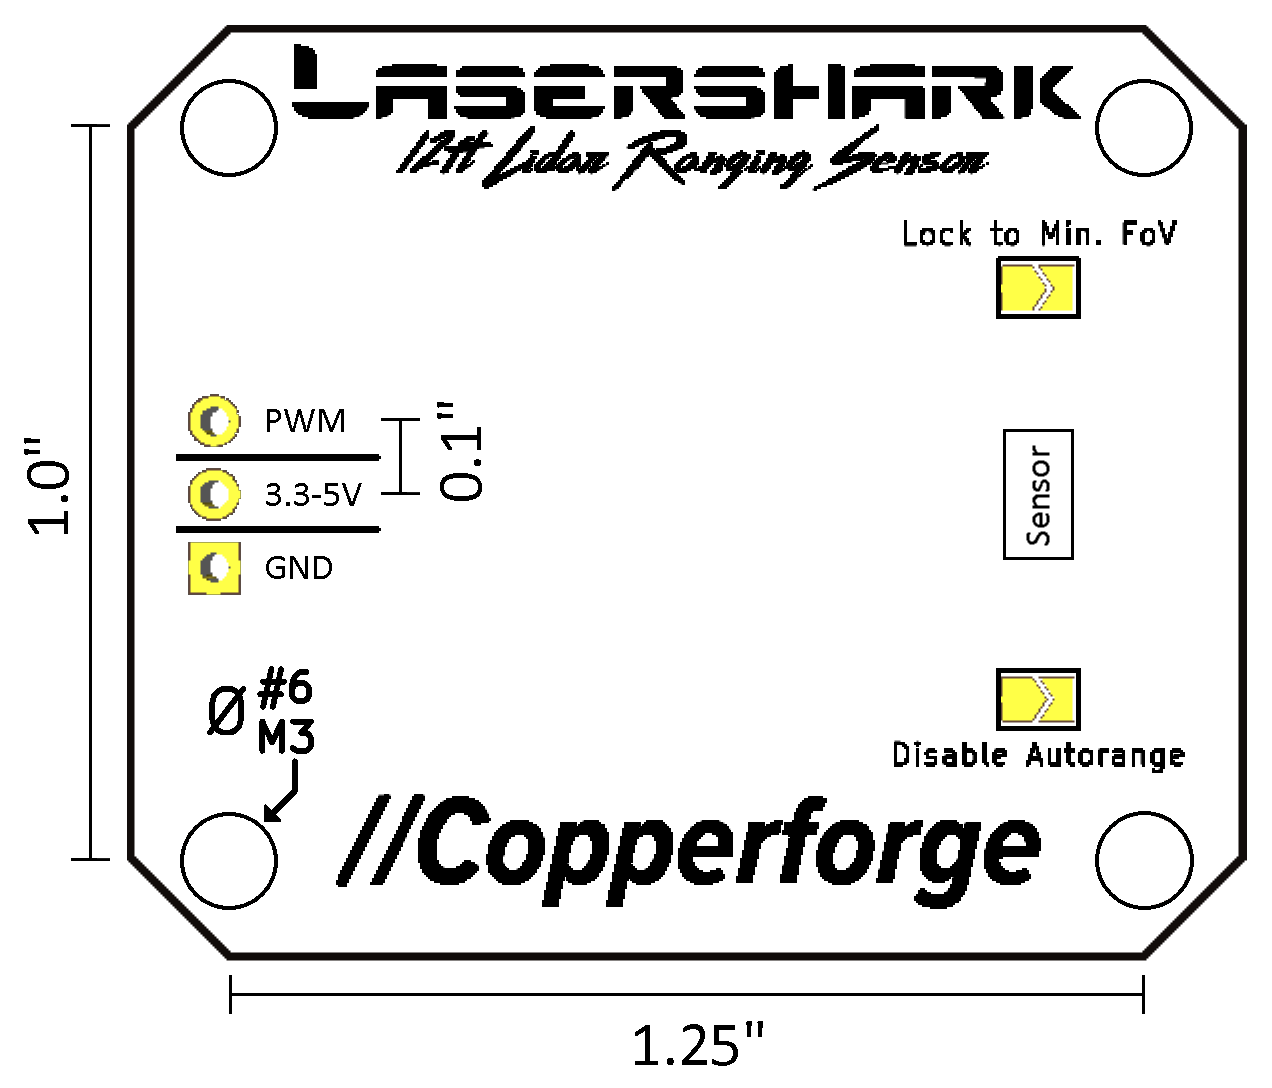
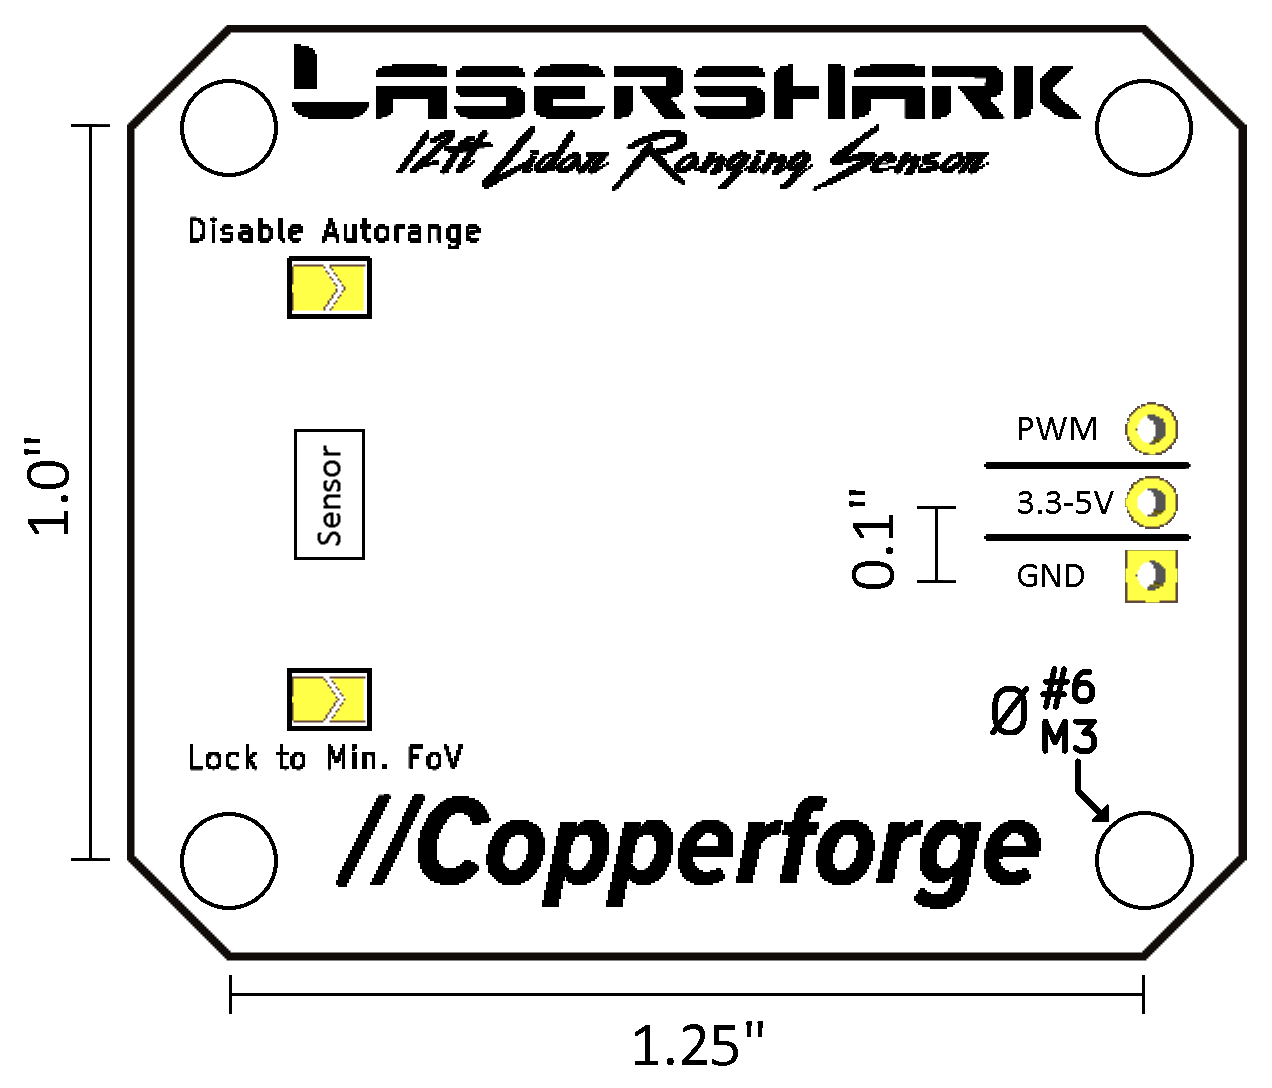
Lasershark mechanical, code tabs, LibCu mostly done

diff --git a/conf.py b/conf.py
@@ -28,6 +28,7 @@ author = 'Benjamin Ward, Solomon Greenberg'
 # extensions coming with Sphinx (named 'sphinx.ext.*') or your custom
 # ones.
 extensions = [
+    'sphinx_tabs.tabs'
 ]
 
 # Add any paths that contain templates here, relative to this directory.

diff --git a/software/libcu.rst b/software/libcu.rst
@@ -3,7 +3,63 @@
 LibCu Software Library
 =================================
 
-Installation
-^^^^^^^^^^^^
+LibCu is
 
-FRC: Installed as a normal vendor library. TODO
+Installation
+------------
+
+.. warning:: LibCu is currently C++/Java only, and is not yet available for LabVIEW
+
+Online Installation
+^^^^^^^^^^^^^^^^^^^
+
+If your development computer is connected to the internet, you should use the online method to install the LibCu C++/Java API:
+
+#. Open your robot project in VSCode.
+#. Click the WPILib icon in the top right or press Ctrl+Shift+P to open the WPILib/VS Code Command Palette.
+#. Select Manage Vendor Libraries.
+#. Select Install new library (online).
+#. Enter the following installation URL and press Enter:
+
+    https://copperforge.cc/dev/maven/LibCu-latest.json
+
+Offline Installation
+^^^^^^^^^^^^^^^^^^^^
+
+#. Download and unzip the latest LibCu C++/Java API into the ``C:\Users\Public\frc2020\`` directory.
+#. Follow the offline installation instructions on `WPILib's FRC-Docs Adding an Offline-installed Library page <http://docs.wpilib.org/en/latest/docs/software/wpilib-overview/3rd-party-libraries.html#adding-an-offline-installed-library>`_.
+
+
+API Docs
+--------
+
+.. tabs::
+
+   .. code-tab:: c++
+
+        namespace libcu
+        {
+        class Lasershark
+        {
+        public:
+            Lasershark(frc::DigitalSource &source);
+            Lasershark(frc::DigitalSource *source);
+            Lasershark(std::shared_ptr<frc::DigitalSource> source);
+
+            double GetDistanceFeet();
+            double GetDistanceInches();
+            double GetDistanceCentimeters();
+        };
+        } // namespace libcu
+
+   .. code-tab:: java
+
+        package com.cuforge.libcu;
+
+        public class Lasershark {
+            public Lasershark(DigitalSource source);
+
+            public double getDistanceFeet();
+            public double getDistanceInches();
+            public double getDistanceCentimeters();
+        }

diff --git a/hardware/2A21_lasershark.rst b/hardware/2A21_lasershark.rst
@@ -33,18 +33,49 @@ The power and ground pins are used to power the sensor. The signal pin is the pi
 Mechanical mounting
 ^^^^^^^^^^^^^^^^^^^
 
-.. warning:: Do not mount directly to metal or other conductive surfaces, since the sensor could be damaged. Mount to a nonconductive material, or use plastic standoffs and fasteners.
+.. warning:: If mounting to conductive surfaces, use the supplied acrylic backplane to avoid any cross-conduction which may damage the sensor, or use plastic standoffs and fasteners.
 
-As seen in the image above, the Lasershark mounts using a 1" by 1.25" bolt pattern, compatible with #6/M3 bolts or smaller.
+As seen in the image above, the Lasershark mounts using a 1.25" by 1" bolt pattern, compatible with #6/M3 bolts or smaller.
 
 .. todo:: Add content about the PWM signal itself
 
 Software
 --------
 
-.. note:: For detailed information about LibCu, please see :ref:`libcu-header`.
+.. note:: For API documentation and detailed information about LibCu, please see :ref:`libcu-header`.
 
-Using LibCu, this sensor
+Using LibCu, this sensor is as simple as:
+
+.. tabs::
+
+   .. code-tab:: c++
+
+        namespace libcu
+        {
+        class Lasershark
+        {
+        public:
+            Lasershark(frc::DigitalSource &source);
+            Lasershark(frc::DigitalSource *source);
+            Lasershark(std::shared_ptr<frc::DigitalSource> source);
+
+            double GetDistanceFeet();
+            double GetDistanceInches();
+            double GetDistanceCentimeters();
+        };
+        } // namespace libcu
+
+   .. code-tab:: java
+
+        package com.cuforge.libcu;
+
+        public class Lasershark {
+            public Lasershark(DigitalSource source);
+
+            public double getDistanceFeet();
+            public double getDistanceInches();
+            public double getDistanceCentimeters();
+        }
 
 
 .. |Lasershark Mechanical Drawing| image:: images/2A21_lasershark_mechanical.png
